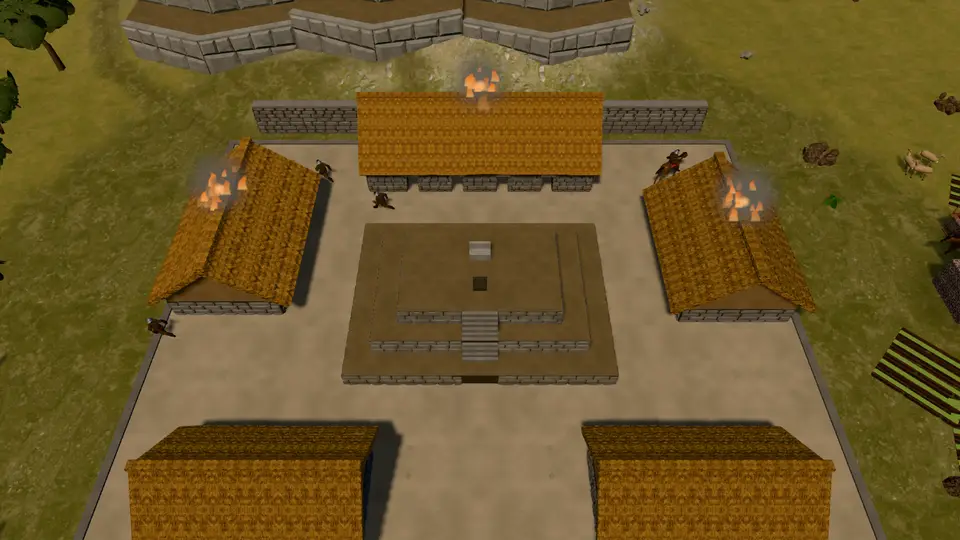
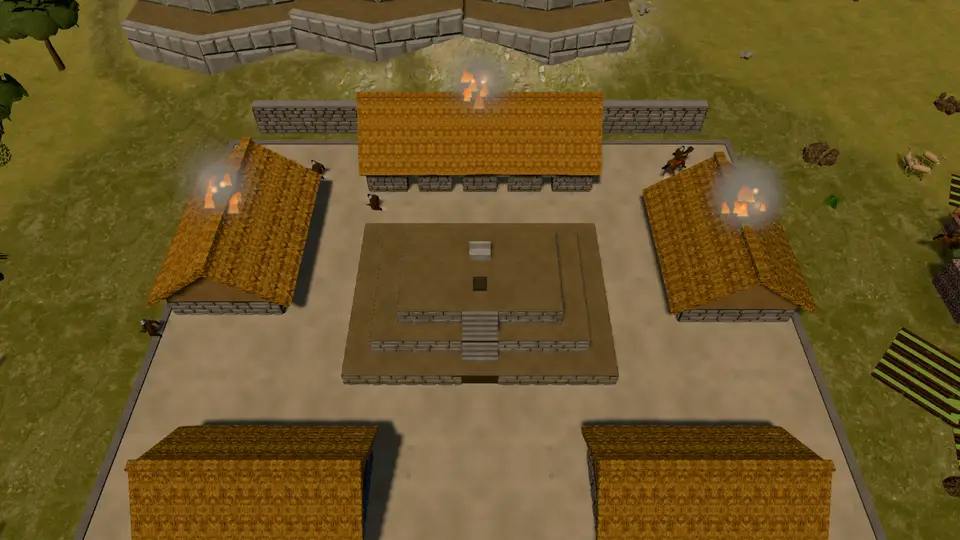
fix(fx): keep the plume opt-in and leave the other fire emitters untouched

diff --git a/src/rendering/Particles.ts b/src/rendering/Particles.ts
@@ -46,21 +46,18 @@ const VERTEX_SHADER = /* glsl */ `
     vKind = kind;
     vSeed = seed;
     vColor = aColor;
-    // Fire runs from amber to orange to ember as it ages; a paler ramp clips to white under the additive
-    // blend, which is how a lit roof ended up looking like a lamp.
+    // Fire runs from #fff2b0 to #ff8a2a to #a02a10 as it ages.
     if (kind > 0.5 && kind < 1.5) {
-      vec3 hot = vec3(1.0, 0.62, 0.18);
-      vec3 mid = vec3(0.95, 0.33, 0.06);
-      vec3 cold = vec3(0.4, 0.08, 0.03);
+      vec3 hot = vec3(1.0, 0.949, 0.690);
+      vec3 mid = vec3(1.0, 0.541, 0.165);
+      vec3 cold = vec3(0.627, 0.165, 0.063);
       vColor = t < 0.5 ? mix(hot, mid, t * 2.0) : mix(mid, cold, (t - 0.5) * 2.0);
     }
     float alpha;
     if (kind < 0.5) { // smoke: rises, grows, soft fade
       alpha = (1.0 - t) * (0.45 + 0.2 * sin(seed * 40.0));
     } else if (kind < 1.5) { // fire
-      // An additive flame is a glow, so it stays faint over bright ground; the normal-blended body carries
-      // the colour and can be much more opaque.
-      alpha = sin(t * 3.14159) * (vEmissive > 0.5 ? 0.3 : 0.95);
+      alpha = sin(t * 3.14159) * 0.95;
       // Per-particle flicker, not a shared pulse.
       alpha *= 0.82 + 0.18 * sin(seed * 61.0 + time * 13.0);
     } else if (kind < 2.5) { // spark
@@ -89,6 +86,9 @@ const FRAGMENT_SHADER = /* glsl */ `
   varying float vSeed;
   void main() {
     vec2 uv = gl_PointCoord - 0.5;
+    // The additive glow is a soft round puff stretched upward: squashing uv.y lengthens it, the old
+    // multiplication by 1.45 flattened every tongue.
+    if (vKind > 0.5 && vKind < 1.5 && vEmissive > 0.5) uv.y *= 0.78;
     float d = length(uv);
     float soft = smoothstep(0.5, 0.05, d);
     if (vKind > 0.5 && vKind < 1.5 && vEmissive < 0.5) {
@@ -104,7 +104,7 @@ const FRAGMENT_SHADER = /* glsl */ `
     }
     if (vEmissive > 0.5) {
       float core = smoothstep(0.18, 0.02, d);
-      vec3 col = vColor + vec3(1.0, 0.9, 0.65) * core * 0.15;
+      vec3 col = vColor + vec3(1.0, 0.95, 0.8) * core * 0.8;
       gl_FragColor = vec4(col, soft * vAlpha);
     } else {
       float rim = smoothstep(0.5, 0.2, d);
@@ -190,6 +190,8 @@ export class Particles {
     spread?: number;
     gravity?: number;
     emissive?: boolean;
+    /** A burning structure's plume: born across the footprint and climbing, instead of a puff at one point. */
+    plume?: boolean;
   }): void {
     const count = opts.count ?? 1;
     const kind = opts.kind ?? 'smoke';
@@ -216,9 +218,9 @@ export class Particles {
       p.emissive = emissive;
       p.pos.set(opts.x, opts.y, opts.z);
       const spread = opts.spread ?? 1;
-      // Flames are born across a footprint, not from one point: a shared origin piles every tongue into a
+      // A plume is born across its footprint, not from one point: a shared origin piles every tongue into a
       // single candle whatever the count.
-      if (kind === 'fire') {
+      if (opts.plume) {
         p.pos.x += (this.rng.float() - 0.5) * spread;
         p.pos.z += (this.rng.float() - 0.5) * spread;
         p.pos.y += this.rng.float() * 0.8;
@@ -232,7 +234,7 @@ export class Particles {
         p.vel.y = (opts.speed ?? 1.4) * (0.7 + this.rng.float() * 0.6);
         p.vel.x *= 0.3;
         p.vel.z *= 0.3;
-      } else if (kind === 'fire' || kind === 'spark') {
+      } else if (opts.plume) {
         // Flames and embers rise: without the bias they hang around the ground and read as confetti.
         p.vel.y = Math.abs(p.vel.y) * 0.8 + (kind === 'spark' ? 2.2 : 1.5);
       }

diff --git a/src/campaign/defs/missions/m_cusco_1536.ts b/src/campaign/defs/missions/m_cusco_1536.ts
@@ -2,6 +2,7 @@ import { Era, CivId, HistoricalPeriod, UnitKind, BuildingKind } from '../../../c
 import { highValleyVegetation } from '../../../model/defs/profiles';
 import { CUSCO1536_HEIGHTFIELD } from '../../../model/defs/cusco1536Heightmap';
 import { CUSCO_SITE_POINT, CUSCO_SITE_SACSAY } from '../cuscoSite';
+import { CUSCO_CITY_FIRES } from '../../../model/defs/cuscoCity';
 import type { MissionDef } from '../../types';
 
 // Cusco 1536: the Inca camp, Sacsayhuamán, the city and the withdrawal road. Ollantaytambo lies
@@ -218,23 +219,9 @@ export const mCusco1536: MissionDef = {
     [BuildingKind.ARSENAL]: 'Casa de armas',
   },
   unitNames: { [UnitKind.SOLDIER]: 'Milicia inca' },
-  // The documented fire: once Sacsayhuamán falls, the city roofs burn while the siege closes.
-  // Heights follow the kit's ridges (`wasi` 6.5 m, `kallanka` 7.8 m), so the flames lick the ichu.
-  fires: [
-    {
-      objectiveId: 'a1_sacsay',
-      pos: { dx: CUSCO_SITE_POINT.x - 15, dz: CUSCO_SITE_POINT.z - 4 },
-      count: 3,
-      height: 4.6,
-    },
-    {
-      objectiveId: 'a1_sacsay',
-      pos: { dx: CUSCO_SITE_POINT.x + 15, dz: CUSCO_SITE_POINT.z - 3 },
-      count: 3,
-      height: 4.6,
-    },
-    { objectiveId: 'a1_sacsay', pos: { dx: CUSCO_SITE_POINT.x, dz: CUSCO_SITE_POINT.z - 12.5 }, count: 3, height: 5.6 },
-  ],
+  // The documented fire: once Sacsayhuamán falls, the city roofs burn while the siege closes. The points
+  // come from the kit (`CUSCO_CITY_FIRES`), so a moved house takes its fire with it.
+  fires: CUSCO_CITY_FIRES.map((fire) => ({ objectiveId: 'a1_sacsay', ...fire })),
   objectives: [
     {
       id: 'a1_sacsay',

diff --git a/src/model/defs/cuscoCity.ts b/src/model/defs/cuscoCity.ts
@@ -59,3 +59,14 @@ export const CUSCO_KIT_FOOTPRINTS: Partial<Record<string, ArchFootprint>> = {
 
 /** Every building of the composition blocks movement; the gateways between the walls stay open. */
 export const CUSCO_CITY_BLOCKERS = layoutBlockers(CUSCO_CITY_LAYOUT, CUSCO_KIT_FOOTPRINTS);
+
+/**
+ * The roofs the 1536 fire lights (`MissionDef.fires`): the west and east houses and the great hall, at the
+ * ridge lines the kit builds (a `wasi` ridge sits at ~4.75 m, the `kallanka`'s at ~5.85 m). Kept next to the
+ * placements so moving a house moves its fire.
+ */
+export const CUSCO_CITY_FIRES = [
+  { pos: { dx: PLAZA.x - 15, dz: PLAZA.z - 4 }, count: 2, height: 4.6 },
+  { pos: { dx: PLAZA.x + 15, dz: PLAZA.z - 3 }, count: 2, height: 4.6 },
+  { pos: { dx: PLAZA.x, dz: PLAZA.z - 12.5 }, count: 3, height: 5.6 },
+] as const;

diff --git a/src/campaign/Mission.ts b/src/campaign/Mission.ts
@@ -267,6 +267,7 @@ export class Mission {
         kind: 'fire',
         // Normal-blended: an additive flame washes out over sunlit roofs. The embers keep the glow.
         emissive: false,
+        plume: true,
         speed: 1.2,
         life: 0.7,
         size: 3.4,
@@ -280,11 +281,11 @@ export class Mission {
         y: y + 1.4,
         z: p.z,
         count: 1,
-        color: 0x6f695f,
+        color: 0x8c857a,
         kind: 'smoke',
         speed: 1.3,
         life: 3.6,
-        size: 2.4,
+        size: 2.8,
         grow: 1.8,
       });
       // Embers every sixth tick, so the plume is not a constant sparkle.
@@ -300,6 +301,7 @@ export class Mission {
           size: 0.7,
           spread: 1.4,
           gravity: 1.4,
+          plume: true,
         });
       }
     }

diff --git a/tests/particles.test.ts b/tests/particles.test.ts
@@ -58,9 +58,9 @@ describe('particle layers', () => {
     particles.dispose();
   });
 
-  it('spreads flames over a footprint and makes them climb', () => {
+  it('spreads a plume over a footprint and makes it climb', () => {
     const particles = new Particles(new THREE.Scene(), 64);
-    particles.emit({ x: 0, y: 1, z: 0, kind: 'fire', count: 8, spread: 2 });
+    particles.emit({ x: 0, y: 1, z: 0, kind: 'fire', count: 8, spread: 2, plume: true });
     const pool = (particles as unknown as Inspectable & { additive: { pool: FlameParticle[] } }).additive.pool;
     const flames = pool.filter((p) => p.active);
     expect(new Set(flames.map((p) => p.pos.x.toFixed(2))).size).toBeGreaterThan(1);

diff --git a/docs/DECISIONS/0011-mission-fires.md b/docs/DECISIONS/0011-mission-fires.md
@@ -9,25 +9,19 @@
 ## Decision
 
 `MissionDef.fires` lists fires as `{ objectiveId, pos, count?, height? }`. `Mission.updateFires` emits fire and
-smoke every 0.12 s at each point whose objective is `completed`. `height` lifts the flames over the terrain so
-a fire can sit on a roof; without it the flames pool on the paving. The flames are presentation only: they
+smoke every 0.12 s at each point whose objective is `completed`. `height` lifts the flames over the terrain, so
+a fire can sit on a roof (Cusco) or burn over the ground of a settlement the player builds (Vilcabamba);
+without it the flames pool on the paving. The flames are presentation only: they
 deal no damage and do not alter pathing, victory or defeat.
 
 The state lives in the objective, so `MissionSave` needs no new field: a load restores the objective and
 the fire comes back on the next tick.
 
-## The look
-
-The flame body is normal-blended (an additive flame desaturates to a white blob over a sunlit roof), while
-the glow and the embers stay additive. Each body sprite is a tapered, leaning silhouette drawn in the
-particle fragment shader; flames are born across the fire's footprint and climb with a negative gravity,
-because a shared spawn point turns any count into a single candle.
-
-![Cusco before the fire](../media/cusco-fires-before.webp)
-![Cusco with the roofs burning](../media/cusco-fires-after.webp)
-
-Captured with `node scripts/capture_mission_fires.mjs` (Cusco 1536, `a1_sacsay` set through the mission's own
-objective state, HUD hidden).
+The flame *body* is normal-blended: an additive flame desaturates to a white blob over a sunlit roof, which is
+how the first pass read as a lamp. The embers keep the glow on the additive layer. Each body sprite is a
+tapered, leaning silhouette drawn in the particle fragment shader, and a plume's particles are born across its
+footprint and climb (`plume`, negative gravity): a shared spawn point and no rise turn any count into a single
+round candle. `plume` is opt-in, so torches, hearths and burning buildings keep their existing look.
 
 ## Alternatives rejected
 
@@ -41,8 +35,13 @@ objective state, HUD hidden).
 
 - Fires stop when the mission ends, like every other mission presentation tick.
 - The same mechanism can light a fire for any objective, but each point is authored: no procedural spread.
+  Cusco's points live with the kit (`CUSCO_CITY_FIRES`), so moving a house moves its fire.
 - A future damage-bearing fire should be a new effect with its own save and replay decision, not a change
   to this one.
+- `node scripts/capture_mission_fires.mjs --out=docs/media/cusco-fires` regenerates the evidence pair:
+
+  ![Cusco before the fire](../media/cusco-fires-before.webp)
+  ![Cusco with the roofs burning](../media/cusco-fires-after.webp)
 
 ## Revisit
 

diff --git a/docs/development.md b/docs/development.md
@@ -869,6 +869,14 @@ Definition of Done and the building audit see
   rendering (`shots_evidence.mjs`, `shots_reference_views.mjs`). The standalone demos (`?city=`, `?scenery=`,
   `?rig=`) build their own renderer and are unaffected. `yarn visual:check` covers the single-pass software path
   only, so the two-pass frame is guarded by the draw-call budgets (#455).
+- **Particles have two layers, and blending is the look**: smoke and dust stay on the normal-blended layer;
+  fire, sparks, explosions and flares go to the additive one, because a glow adds light but cannot darken.
+  That cuts both ways: an *additive* flame over a sunlit roof desaturates to a white blob, so the mission fires
+  (`src/campaign/Mission.ts`) emit a normal-blended flame body (`emissive: false`) and keep only the embers
+  additive. Fire particles are born across `spread` and climb (a negative `gravity` beats the per-frame drag);
+  without both, any `count` piles into a single round candle. Particle randomness is cosmetic (`Particles` owns
+  its own RNG), so none of this touches save/replay determinism. See ADR
+  [0011](./DECISIONS/0011-mission-fires.md).
 - **Unit yaw is a movement angle, not a Three.js rotation**: `angleTo` returns the angle from +X, and models are
   built facing +Z. `EntityView.setFacing(yaw)` applies `facingRotation(yaw) = atan2(cos yaw, sin yaw)`; keep
   `setRotationY` for buildings/objects with a raw rotation. Turrets and the muzzle offset use the same helper

diff --git a/docs/design/cusco-1536-model-mission.md b/docs/design/cusco-1536-model-mission.md
@@ -58,8 +58,9 @@ Optional: cut the city's supplies. The mission never stages the later «Santiago
   dusk captures: Cusco's grass and forest are noisy and a brighter hour exceeds the 160 KB budget.
   Regenerate with `node scripts/capture_cinema.mjs --mission=m_cusco_1536 [--only=cine-fortaleza]`.
 - Briefing art `media/cusco-1536/intro-ciudad.webp`; act cards `intro-sacsay` and `intro-retirada`;
-  epilogue `intro-epilogo`. The burning roofs are `media/cusco-fires-before.webp` /
-  `media/cusco-fires-after.webp`, captured with `node scripts/capture_mission_fires.mjs`.
+  epilogue `intro-epilogo`. The burning roofs are `docs/media/cusco-fires-before.webp` /
+  `docs/media/cusco-fires-after.webp`, captured with
+  `node scripts/capture_mission_fires.mjs --out=docs/media/cusco-fires`.
 
 ## Tests and evidence
 

diff --git a/docs/design/vilcabamba-model-mission.md b/docs/design/vilcabamba-model-mission.md
@@ -48,6 +48,8 @@ The Inca's capture and execution are narrated in the epilogue; no counterfactual
   original counts wiped the real-order army before the escape. As a `retirada` mission, the camp can fall
   without ending it; the court's objectives decide.
 - The refuge burns during `a2_evacua` through `MissionDef.fires` (ADR 0011); the fire is presentation only.
+  `docs/media/vilcabamba-fires-after.webp` is the capture:
+  `node scripts/capture_mission_fires.mjs --mission=m_vilcabamba --zoom=42 --out=docs/media/vilcabamba-fires`.
 - Túpac Amaru I is a briefing card and narrator; his capture is not a player-controlled survival objective.
 
 ## Opening and closing
